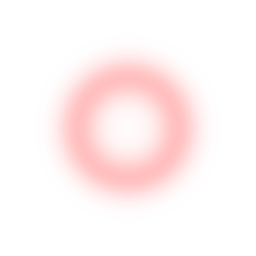
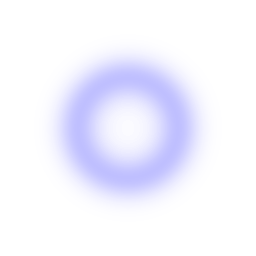
Added fragment program for star rendering using spectral type.

Changed region(s): [[0.2188, 0.2188, 0.7812, 0.7812]]

diff --git a/galaxy.c b/galaxy.c
@@ -19,6 +19,8 @@ static int num_nodes = 0;
 static struct star *S;
 static struct node *N;
 
+#define GLSL 1
+
 /*---------------------------------------------------------------------------*/
 
 double log_10(double n)
@@ -58,7 +60,7 @@ void read_star(FILE *fp)
         {
             /* Compute equatorial position in parsecs and radians. */
 
-            plx =    1000.0 / fabs(plx);
+            plx = 1000.0 / fabs(plx);
             ra  = M_PI * ra /  180.0;
             de  = M_PI * de /  180.0;
 
@@ -85,7 +87,6 @@ void read_star(FILE *fp)
             c[1] = 0xFF;
             c[2] = 0xFF;
 
-            /*
             switch (buf[435])
             {
             case 'O': c[0] = 0x6F; c[1] = 0x6F; c[2] = 0xFF; break;
@@ -96,7 +97,6 @@ void read_star(FILE *fp)
             case 'K': c[0] = 0xFF; c[1] = 0xAF; c[2] = 0x8F; break;
             case 'M': c[0] = 0xFF; c[1] = 0x6F; c[2] = 0x6F; break;
             }
-            */
 
             S[num_stars].color[0] = c[0];
             S[num_stars].color[1] = c[1];
@@ -109,7 +109,7 @@ void read_star(FILE *fp)
 
 void star_init(void)
 {
-    star_texture = png_load("blob.png");
+/*  star_texture = png_load("blob.png"); */
 
     if ((S = (struct star *) calloc(sizeof (struct star), max_stars)))
     {
@@ -144,36 +144,62 @@ int tree_init(int d)
 
 /*---------------------------------------------------------------------------*/
 
+const char *read_file(const char *filename)
+{
+    char  *ptr = NULL;
+    char   buf[MAXBUF];
+    size_t len;
+
+    FILE  *fp;
+
+    if ((fp = fopen(filename, "r")))
+    {
+        if ((len = fread(buf, 1, MAXBUF, fp)) > 0)
+        {
+            if ((ptr = (char *) calloc(1, len + 1)))
+                strncpy(ptr, buf, len);
+        }
+        fclose(fp);
+    }
+
+    return ptr;
+}
+
 void galaxy_init(void)
 {
-    FILE  *fp;
+    FILE *fp;
+    const char *vert_program;
+    const char *frag_program;
 
     glEnable(GL_VERTEX_PROGRAM_POINT_SIZE_ARB);
     glEnable(GL_VERTEX_PROGRAM_ARB);
+    glEnable(GL_FRAGMENT_PROGRAM_ARB);
 
     glEnable(GL_POINT_SPRITE_ARB);
     glEnable(GL_COLOR_MATERIAL);
     glEnable(GL_TEXTURE_2D);
     glEnable(GL_BLEND);
 
-    glBlendFunc(GL_SRC_ALPHA, GL_ONE);
+    glBlendFunc(GL_ONE, GL_ONE);
 
     glTexEnvi(GL_POINT_SPRITE_ARB, GL_COORD_REPLACE_ARB, GL_TRUE);
 
-    if ((fp = fopen("star.vp", "r")))
-    {
-        char   buf[VPMAXLEN];
-        size_t len;
+    vert_program = read_file("star.vp");
+    frag_program = read_file("star.fp");
 
-        if ((len = fread(buf, 1, VPMAXLEN, fp)) > 0)
-            glProgramStringARB(GL_VERTEX_PROGRAM_ARB,
-                               GL_PROGRAM_FORMAT_ASCII_ARB, len, buf);
+    glProgramStringARB(GL_VERTEX_PROGRAM_ARB,
+                       GL_PROGRAM_FORMAT_ASCII_ARB,
+                       strlen(vert_program), vert_program);
 
-        if (glGetError() != GL_NO_ERROR)
-            printf("%s", glGetString(GL_PROGRAM_ERROR_STRING_ARB));
+    if (glGetError() != GL_NO_ERROR)
+        printf("vert_program: %s", glGetString(GL_PROGRAM_ERROR_STRING_ARB));
 
-        fclose(fp);
-    }
+    glProgramStringARB(GL_FRAGMENT_PROGRAM_ARB,
+                       GL_PROGRAM_FORMAT_ASCII_ARB,
+                       strlen(frag_program), frag_program);
+
+    if (glGetError() != GL_NO_ERROR)
+        printf("frag_program: %s", glGetString(GL_PROGRAM_ERROR_STRING_ARB));
 
     star_init();
     tree_init(2);
@@ -187,11 +213,6 @@ void galaxy_draw(const double p[3])
     double  viewpoint[3];
     double  magnifier[1];
     int i;
-
-    /*
-      float c[4] = { 1.0, 1.0, 1.0, 1.0 };
-    */
-    float c[4] = { 2.0, 2.0, 2.0, 1.0 };
 
     viewer_get_pos(viewpoint);
     viewer_get_mag(magnifier);
@@ -207,15 +228,11 @@ void galaxy_draw(const double p[3])
     glColorPointer (3, GL_UNSIGNED_BYTE, stride, &S[0].color);
     glVertexAttribPointerARB(6, 1, GL_FLOAT, 0, stride, &S[0].magnitude);
 
-    /*
-    glTexEnvfv(GL_TEXTURE_ENV, GL_TEXTURE_ENV_COLOR, c);
-    glTexEnvi(GL_TEXTURE_ENV, GL_TEXTURE_ENV_MODE, GL_BLEND);
-    */
     glDrawArrays(GL_POINTS, 0, num_stars);
 
     glDisableVertexAttribArrayARB(6);
-    glDisableClientState(GL_VERTEX_ARRAY);
     glDisableClientState(GL_COLOR_ARRAY);
+    glDisableClientState(GL_VERTEX_ARRAY);
 
     glDisable(GL_TEXTURE_2D);
     {

diff --git a/main.c b/main.c
@@ -59,11 +59,6 @@ int supported(const char *extension)
 
 static void init(void)
 {
-    if (!supported("GL_ARB_vertex_program"))
-        fprintf(stderr, "Requires GL_ARB_vertex_program\n");
-    if (!supported("GL_ARB_point_sprite"))
-        fprintf(stderr, "Requires GL_ARB_point_sprite\n");
-
     viewer_init();
     galaxy_init();
 }

diff --git a/viewer.c b/viewer.c
@@ -91,7 +91,7 @@ int viewer_point(int x, int y)
     }
     if (button[2])
     {
-        distance += dy * 100;
+        distance += dy * 32;
 
         if (distance < 0.0)
             distance = 0.0;

diff --git a/opengl.h b/opengl.h
@@ -11,7 +11,7 @@
 #define WIN_H 768
 #endif
 
-#define VPMAXLEN 4096
+#define MAXBUF 4096
 
 /*---------------------------------------------------------------------------*/
 
